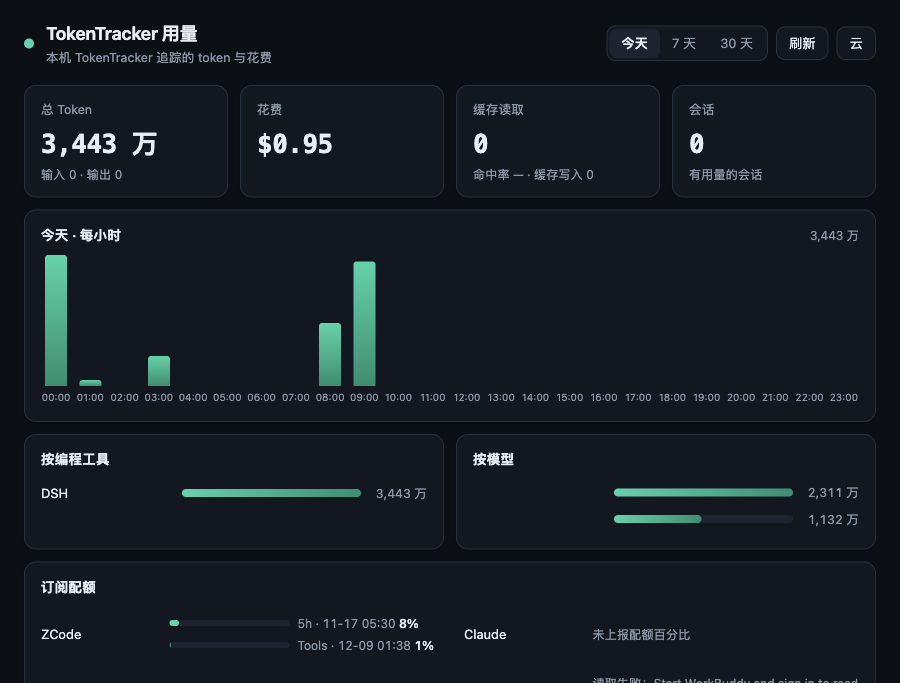
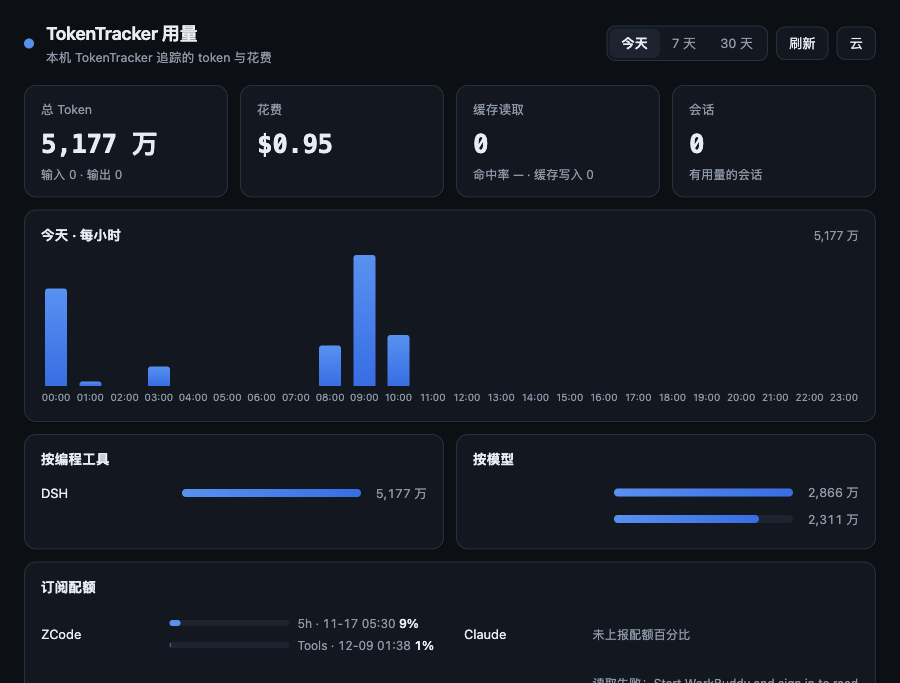
style: 面板主色改蓝（Jerry 选定），spec 同步

diff --git a/page/style.css b/page/style.css
@@ -8,8 +8,8 @@
   --line: #d8dee6;
   --fg: #1f2328;
   --muted: #656d76;
-  --brand: #1a9e72;
-  --brand-deep: #0e8f6e;
+  --brand: #2f81f7;
+  --brand-deep: #1f6feb;
   --accent: #0969da;
   --warn: #9a6700;
   --danger: #d1242f;
@@ -33,8 +33,8 @@
   --line: #263140;
   --fg: #e6edf3;
   --muted: #8b98a9;
-  --brand: #2dd4a7;
-  --brand-deep: #0e8f6e;
+  --brand: #4493f8;
+  --brand-deep: #1f6feb;
   --accent: #58a6ff;
   --warn: #d29922;
   --danger: #f85149;

diff --git a/docs/design-spec.md b/docs/design-spec.md
@@ -25,8 +25,8 @@
   --text: #1f2328;
   --text-dim: #656d76;
   --text-faint: #8c959f;
-  --brand: #1a9e72;       /* 主色（青绿） */
-  --brand-deep: #0e8f6e;
+  --brand: #2f81f7;       /* 主色（蓝，Jerry 选定） */
+  --brand-deep: #1f6feb;
   --brand-soft: rgba(26, 158, 119, 0.10);
   --accent: #0969da;      /* 次强调 / 链接 */
   --warn: #9a6700;
@@ -51,8 +51,8 @@
   --text: #e6edf3;
   --text-dim: #8b98a9;
   --text-faint: #5c6a7d;
-  --brand: #2dd4a7;
-  --brand-deep: #0e8f6e;
+  --brand: #4493f8;
+  --brand-deep: #1f6feb;
   --brand-soft: rgba(45, 212, 167, 0.12);
   --accent: #58a6ff;
   --warn: #d29922;
